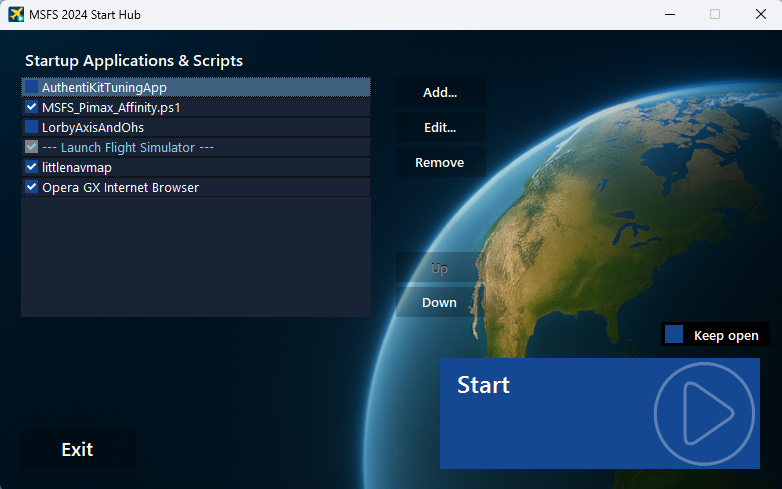
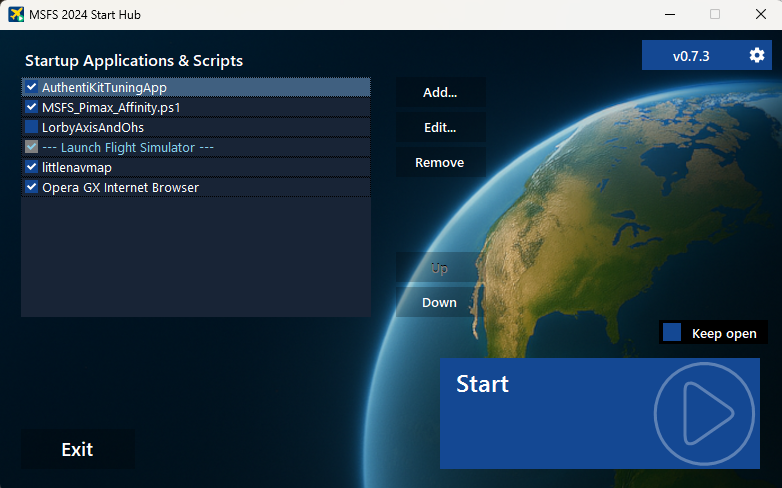
chore: update screenshot and CHANGELOG for v0.7.3

diff --git a/CHANGELOG.md b/CHANGELOG.md
@@ -3,6 +3,13 @@ All notable changes to this project will be documented in this file.
 
 The format is based on Keep a Changelog, and this project adheres to Semantic Versioning.
 
+## [0.7.3]
+### Added
+- Process check for startup items: optional skip and/or warning if a process is already running before launch.
+- New fields in startup item configuration: Process Name, Skip If Running, Warn If Running.
+- Pre-launch warning dialog listing all already-running processes marked for warning.
+- Process Name is automatically pre-filled from the executable file name when browsing for an `.exe` file.
+
 ## [0.7.2]
 ### Added
 - Settings form for viewing and managing simulator configuration.
